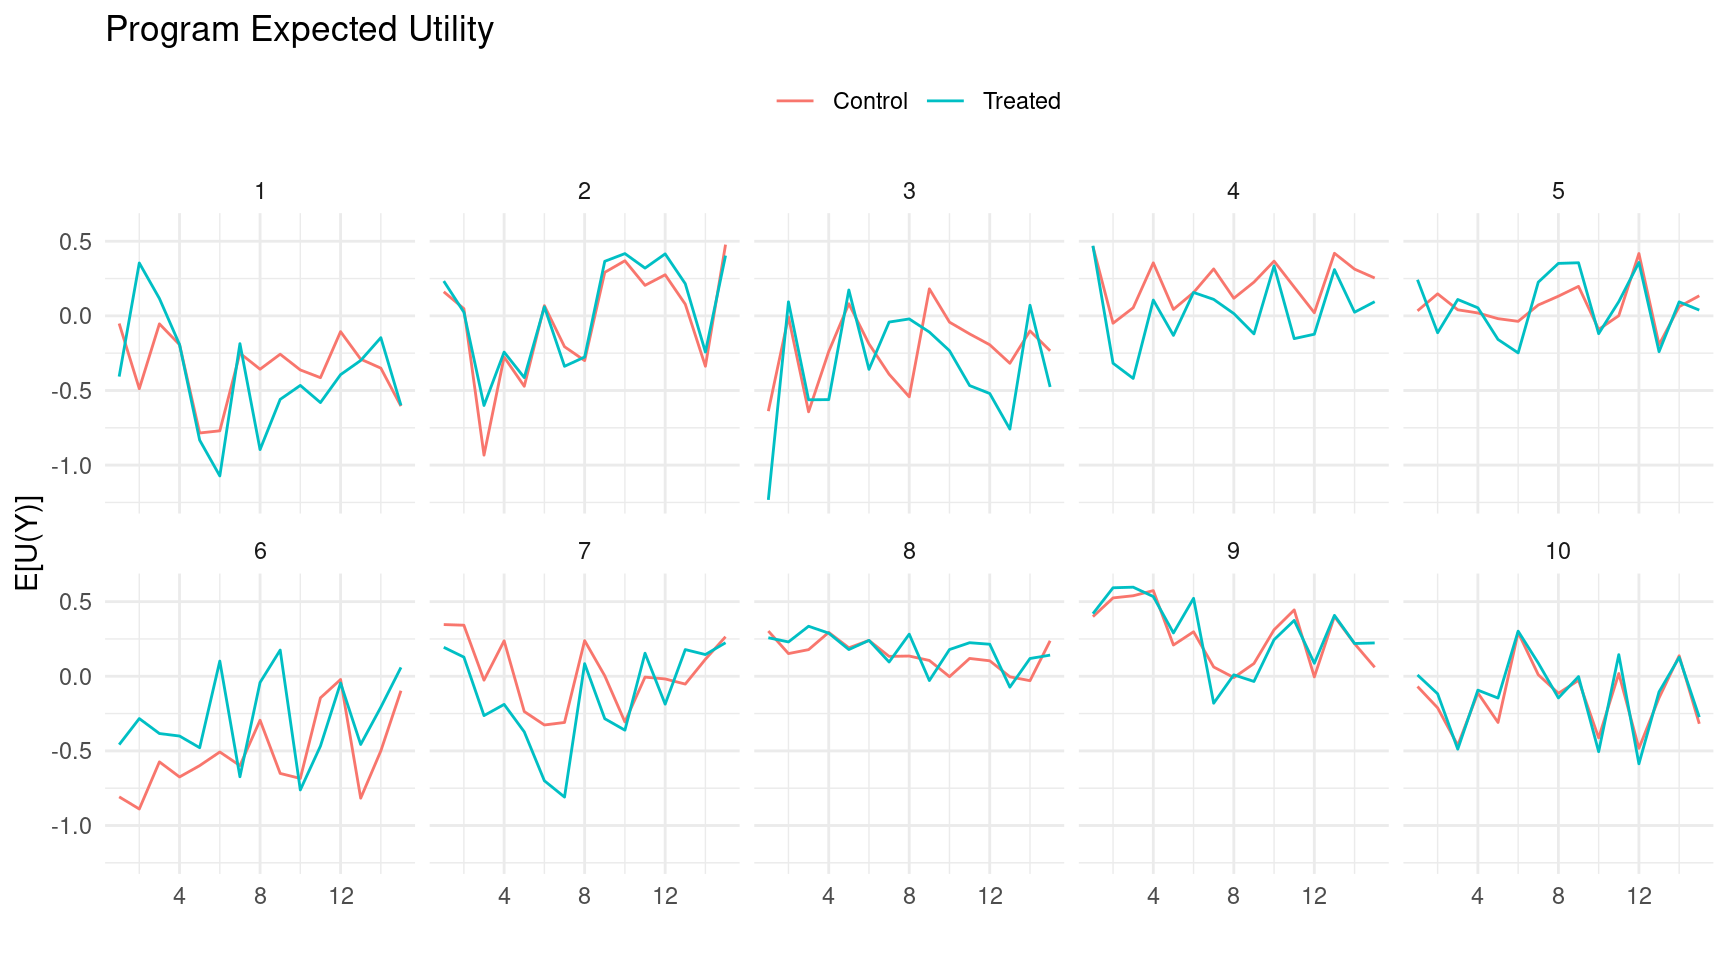
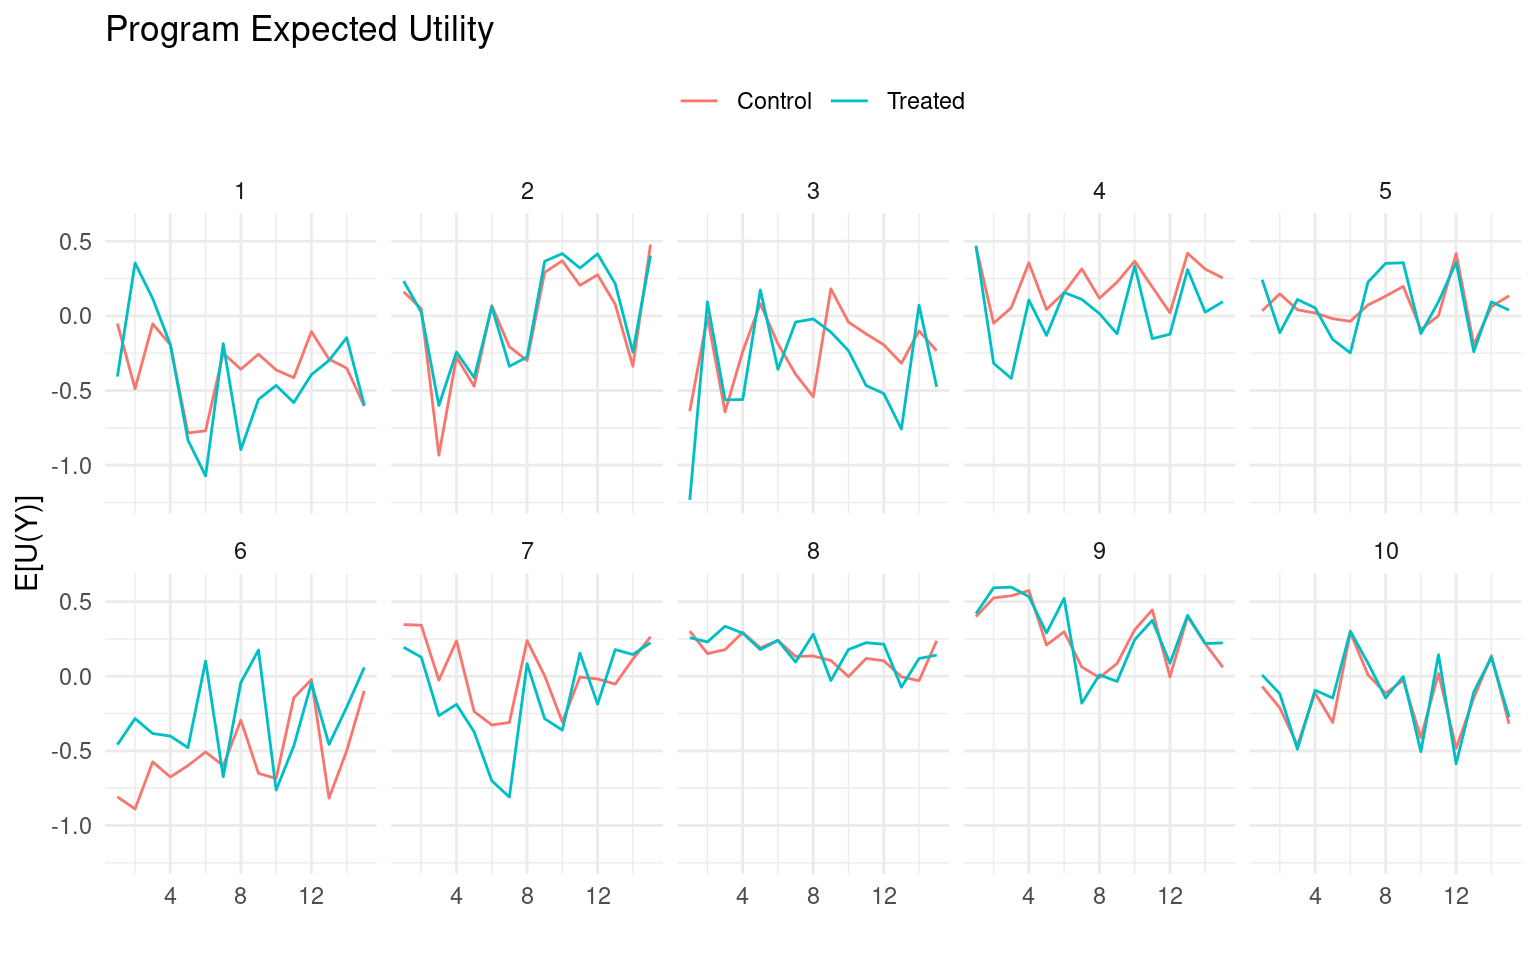
Reduce fig width

diff --git a/docs/diagnose.html b/docs/diagnose.html
@@ -137,7 +137,7 @@ div.csl-indent {
 
 </header>
 
-<div class="cell" data-hash="diagnose_cache/html/load-sim-data_af2127eb6648477bd23494c3c2c64bdc">
+<div class="cell" data-hash="diagnose_cache/html/load-sim-data_e0beba43087c07d63126d5d9bdbac01b">
 
 </div>
 <section id="introduction" class="level1 page-columns page-full" data-number="1">
@@ -179,11 +179,11 @@ div.csl-indent {
 \end{align*}
 \]</span> where <span class="math inline">\(\boldsymbol{\xi} = (\xi^\mu, \xi^\tau, \xi^\sigma, \xi^{\eta^\mu}, \xi^{\eta^\tau})\)</span> are the hyperparameters for the environment. Thus we are modeling the counterfactual outcomes of program implementation as a hierarchical Bayesian model. This means that while each program has a fixed average baseline outcome, <span class="math inline">\(\mu_k\)</span>, and average treatment effect, <span class="math inline">\(\tau_k\)</span>, at every step normally distributed shocks, with mean zero, alter the realized averages. </p><div class="no-row-height column-margin column-container"><span class="">With some abuse of notation, I will write <span class="math inline">\(\boldsymbol{\theta_{kt}\sim\theta_k}\)</span> and <span class="math inline">\(\boldsymbol{\theta_k\sim\boldsymbol{\xi}}\)</span>.</span></div></div>
 <div class="page-columns page-full"><p>In this simple environment this hierarchical structure represents the heterogeneity of program effectiveness over time, emphasizing the limitations of a single evaluation of a program at a particular point in time. I’m making the simplifying assumption that this variation is purely an oscillation without any trends. Furthermore, agents should also be concerned about variations in effectiveness when programs are implemented in different contexts, but we ignore that in this environment assuming the time variation captures the general problem of heterogeneity over time and context.</p><div class="no-row-height column-margin column-container"><span class="">Context here refers to geography or populations. Meta-analyses are typically aimed at understanding the generalizability of evaluations between contexts.</span></div></div>
-<div class="cell page-columns page-full" data-hash="diagnose_cache/html/fig-states-example_da7afbdd91c58067086060057daa1f12">
+<div class="cell page-columns page-full" data-hash="diagnose_cache/html/fig-states-example_ee2a21eea6d22058e580bb725f80c377">
 <div class="cell-output-display page-columns page-full">
 <div id="fig-states-example" class="quarto-figure quarto-figure-center anchored page-columns page-full">
 <figure class="figure page-columns page-full">
-<p><img src="diagnose_files/figure-html/fig-states-example-1.png" class="img-fluid figure-img" width="864"></p>
+<p><img src="diagnose_files/figure-html/fig-states-example-1.png" class="img-fluid figure-img" width="768"></p>
 <p></p><figcaption class="figure-caption margin-caption">Figure&nbsp;1: Population outcomes over time for 10 example programs. Ribbons represent the mean outcome <span class="math inline">\(\pm \sigma_p\)</span>.</figcaption><p></p>
 </figure>
 </div>
@@ -204,11 +204,11 @@ div.csl-indent {
 U(y;\alpha) = 1 - e^{- \alpha y},
 \]</span> where <span class="math inline">\(\alpha\)</span> represents the degree of risk aversion. Typically, we would want to also take into consideration <em>cost-effectiveness</em>, however, in this formulation I assume that all programs have a unit cost.</p>
 <div class="page-columns page-full"><p>If there is uncertainty in the outcomes or there is variability in outcomes in the population, we would want to work with expected utility. For example, given some means and standard deviations of outcomes over time, <span class="math inline">\(\mu_{kt} + z\cdot \tau_{kt}\)</span> and <span class="math inline">\(\sigma_k\)</span>, respectively, the expected utility would be as in <a href="#fig-state-util-example">Figure&nbsp;3</a>. Since the agent also never observes the true state, this uncertainty also would have reductive affect on expected utility (if using a risk averse utility function).</p><div class="no-row-height column-margin column-container"><span class="">We focus on statistical uncertainty, ignoring moral uncertainty.</span></div></div>
-<div class="cell page-columns page-full" data-hash="diagnose_cache/html/fig-state-util-example_d4756303d9ff6c993e9d11664abadc94">
+<div class="cell page-columns page-full" data-hash="diagnose_cache/html/fig-state-util-example_627ccd2afa5dda34ec5e6852095643ac">
 <div class="cell-output-display page-columns page-full">
 <div id="fig-state-util-example" class="quarto-figure quarto-figure-center anchored page-columns page-full">
 <figure class="figure page-columns page-full">
-<p><img src="diagnose_files/figure-html/fig-state-util-example-1.png" class="img-fluid figure-img" width="864"></p>
+<p><img src="diagnose_files/figure-html/fig-state-util-example-1.png" class="img-fluid figure-img" width="768"></p>
 <p></p><figcaption class="figure-caption margin-caption">Figure&nbsp;3: Population expected utility over time for 10 example programs. <span class="math inline">\(E_{Y_{kt}\sim\boldsymbol{\theta_{kt}}}[U(Y_{kt}(z))] = 1 - e^{-\alpha(\mu_{kt} + z\cdot\tau_{kt}) + \alpha^2 \sigma_k^2/2}\)</span>.</figcaption><p></p>
 </figure>
 </div>
@@ -251,11 +251,11 @@ G_{\pi,t:T} = \sum_{r=t}^T \gamma^{1-r}E_{\boldsymbol{\theta}_r\sim b_{r-1}}[R(\
 <li><em>Particle Filter Tree with Progressive Depth Widening (PFT-DPW),</em> in which we use an offline Monte Carlo Tree Search (MCTS) policy variant to select the program to evaluate <span class="citation" data-cites="Sunberg2018">(<a href="#ref-Sunberg2018" role="doc-biblioref">Sunberg and Kochenderfer 2018</a>)</span>.<a href="#fn2" class="footnote-ref" id="fnref2" role="doc-noteref"><sup>2</sup></a></li>
 </ol>
 <p>For all the policies experimented with, we maintain some kind of belief of the expected utility of implementation counterfactuals. For all of them we use a hierarchical Bayesian posterior to represent our updated beliefs. For the PFT-DPW policy we use a <em>particle filter</em> to efficiently manage these beliefs as we iteratively build a tree of action-observation-belief trajectories.</p>
-<div class="cell page-columns page-full" data-hash="diagnose_cache/html/fig-actions_ab0504d1f8462f8dec2798cbdb2c4fdc">
+<div class="cell page-columns page-full" data-hash="diagnose_cache/html/fig-actions_42a9a347427d8b5d22a24068ec22a6c8">
 <div class="cell-output-display page-columns page-full">
 <div id="fig-actions" class="quarto-figure quarto-figure-center anchored page-columns page-full">
 <figure class="figure page-columns page-full">
-<p><img src="diagnose_files/figure-html/fig-actions-1.png" class="img-fluid figure-img" width="864"></p>
+<p><img src="diagnose_files/figure-html/fig-actions-1.png" class="img-fluid figure-img" width="768"></p>
 <p></p><figcaption class="figure-caption margin-caption">Figure&nbsp;4: Evaluate and implement actions over <span class="math inline">\(K = 15\)</span> steps for five example episodes (rows). For each each episode, we observe how the different policies behave (columns). The plot has been arranged such that the y-axis is in ascending order of <em>ex ante</em> optimality.</figcaption><p></p>
 </figure>
 </div>
@@ -273,11 +273,11 @@ G_{\pi,t:T} = \sum_{r=t}^T \gamma^{1-r}E_{\boldsymbol{\theta}_r\sim b_{r-1}}[R(\
 \max_{\pi \in \Pi} \widetilde{W}_T(\pi) = \frac{1}{S} \sum_{s=1}^S \sum_{t=1}^T\gamma^{t-1}R(\pi(b_{st}), \boldsymbol{\theta}_{st}).
 \]</span></span></div></div>
 <p>To evaluate the policies’ performance we compare their mean accumulated discounted utility to the same quantity when none of the programs are implemented. In <a href="#fig-returns-compare">Figure&nbsp;5</a>, we observe how this difference evolves over the <span class="math inline">\(T\)</span> steps of the episode: we see that the best performers are the PFT-DPW and Bayesian evaluate-second-best policies. We observe lower performance from the two Frequentist policies and the random Bayesian policy. Lastly, the worst performer is the no-evaluation policy where we make decision based on <span class="math inline">\(b_0\)</span> only.</p>
-<div class="cell page-columns page-full" data-hash="diagnose_cache/html/fig-returns-compare_89f41d723055ef4766f7ec64d451e028">
+<div class="cell page-columns page-full" data-hash="diagnose_cache/html/fig-returns-compare_93fcec54606543bfe76cdb4eb698bc15">
 <div class="cell-output-display page-columns page-full">
 <div id="fig-returns-compare" class="quarto-figure quarto-figure-center anchored page-columns page-full">
 <figure class="figure page-columns page-full">
-<p><img src="diagnose_files/figure-html/fig-returns-compare-1.png" class="img-fluid figure-img" width="864"></p>
+<p><img src="diagnose_files/figure-html/fig-returns-compare-1.png" class="img-fluid figure-img" width="768"></p>
 <p></p><figcaption class="figure-caption margin-caption">Figure&nbsp;5: Mean accumulated discounted utility gains, compared to a no program implementation policy, <span class="math display">\[\widetilde{W}_T(\pi) - \widetilde{W}_T(\pi^\emptyset),\]</span> where <span class="math inline">\(\pi^\emptyset(b) = (0,0),\forall b.\)</span></figcaption><p></p>
 </figure>
 </div>
@@ -294,20 +294,20 @@ G_{\pi,t:T} = \sum_{r=t}^T \gamma^{1-r}E_{\boldsymbol{\theta}_r\sim b_{r-1}}[R(\
 </div>
 </div></div></div>
 <p>To make this comparison clearer we calculate the percentage difference between our highest performing policies with: (i) the no-evaluation policy and (ii) the random Bayesian policy (which is roughly on par with the random Frequentist policy). Compared to the policy of never re-evaluating a program once it is selected for implementation, we observe average accumulated welfare for the Bayesian evaluate-second-best and the PFT-DPW offline that is more than 20% higher after four episode steps and passing 30% after seven steps. Compared the Frequentist policies (evaluate-second-best and random) the highest performers are around 20% better after five steps.</p>
-<div class="cell fig-cap-location-bottom page-columns page-full" data-hash="diagnose_cache/html/fig-step1-returns_2b21fc2fe322518cf39adf16744c3c0a">
+<div class="cell fig-cap-location-bottom page-columns page-full" data-hash="diagnose_cache/html/fig-step1-returns_b047187bc9d69665b67f4910e98dcb08">
 
 <div class="no-row-height column-margin column-container"><div class="cell-output-display">
 <div id="fig-step1-returns" class="quarto-figure quarto-figure-center anchored">
 <figure class="figure">
 <p><img src="diagnose_files/figure-html/fig-step1-returns-1.png" class="img-fluid figure-img" width="384"></p>
-<p></p><figcaption class="figure-caption">Figure&nbsp;7: The distribution of accumulated utility gains at <span class="math inline">\(t = 1\)</span>, comparing the best possible program choice, the Frequentist policy, and the Bayesian policy.</figcaption><p></p>
+<p></p><figcaption class="figure-caption">Figure&nbsp;7: The distribution of utility gains at <span class="math inline">\(t = 1\)</span>, comparing the best possible program choice, the Frequentist policy, and the Bayesian policy.</figcaption><p></p>
 </figure>
 </div>
 </div></div></div>
 </section>
 <section id="conclusion" class="level1" data-number="6">
 <h1 data-number="6"><span class="header-section-number">6</span> Conclusion</h1>
-<div class="cell" data-hash="diagnose_cache/html/unnamed-chunk-18_8314620dd367a120b953506aece682f1">
+<div class="cell" data-hash="diagnose_cache/html/unnamed-chunk-18_e9f5efd90d66d31208a70f8b545a38c3">
 
 </div>
 
@@ -533,7 +533,7 @@ format:
   html:
     number-sections: true
     code-tools: true
-    fig-width: 9 
+    fig-width: 8 
     toc: true
     toc-location: left
 execute: 
@@ -998,12 +998,11 @@ vn_util_diff |&gt;
 ```
 To make this comparison clearer we calculate the percentage difference between our highest performing policies with: (i) the no-evaluation policy and (ii) the random Bayesian policy (which is roughly on par with the random Frequentist policy). Compared to the policy of never re-evaluating a program once it is selected for implementation, we observe average accumulated welfare for the Bayesian evaluate-second-best and the PFT-DPW offline that is more than 20% higher after four episode steps and passing 30% after seven steps. Compared the Frequentist policies (evaluate-second-best and random) the highest performers are around 20% better after five steps. 
 
-
 quarto-executable-code-5450563D
 
 ```r
 #| label: fig-step1-returns
-#| fig-cap: "The distribution of accumulated utility gains at $t = 1$, comparing the best possible program choice, the Frequentist policy, and the Bayesian policy."
+#| fig-cap: "The distribution of utility gains at $t = 1$, comparing the best possible program choice, the Frequentist policy, and the Bayesian policy."
 #| fig-cap-location: bottom
 #| fig-width: 4
 #| fig-height: 2
